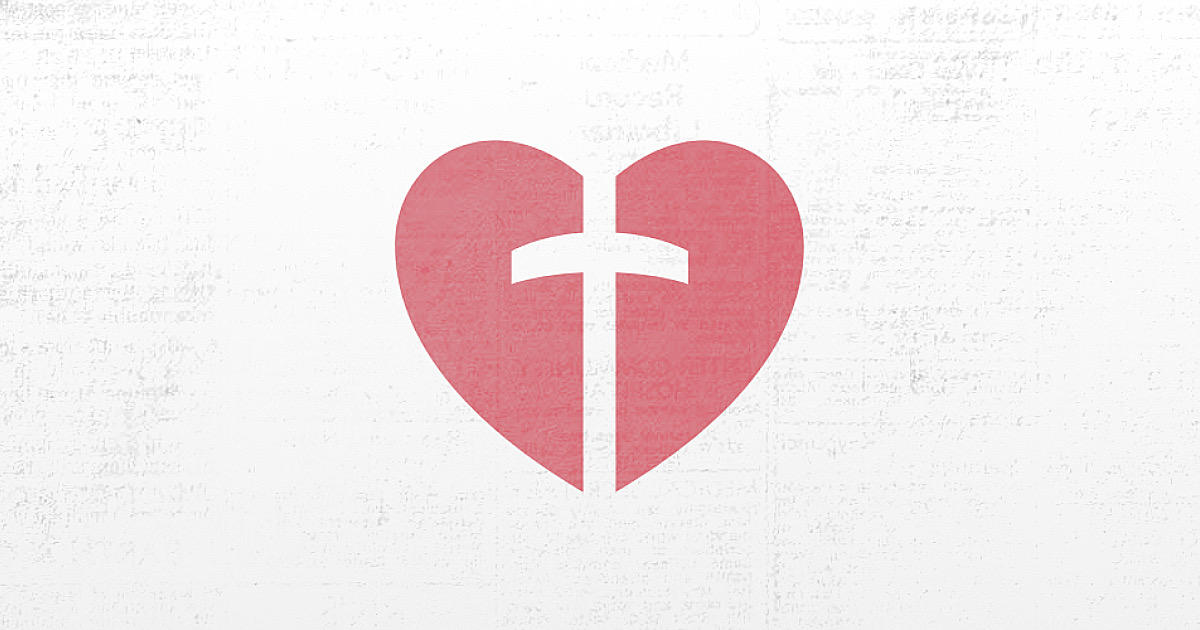
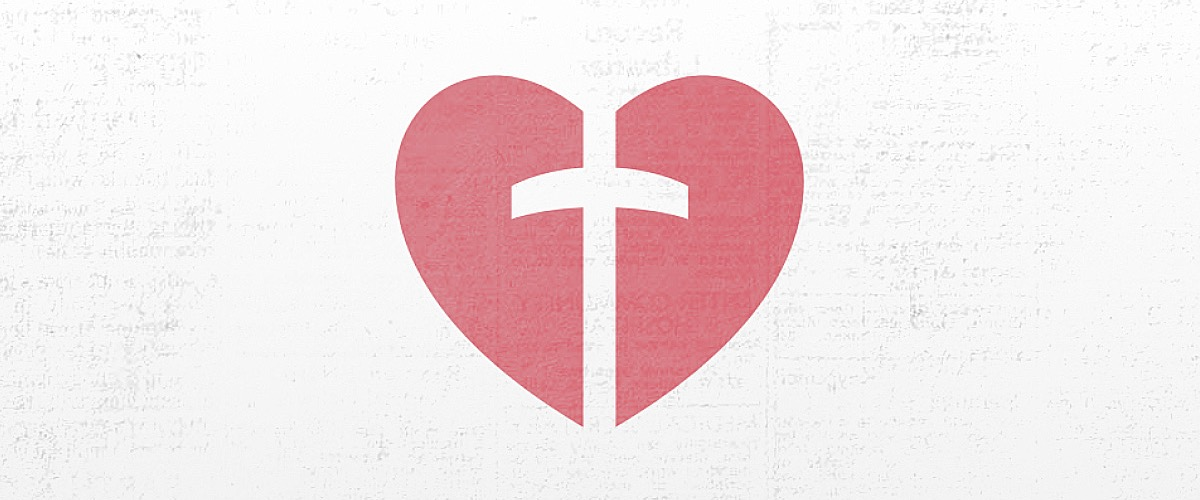
Simplify the README, in the style of Anki's
Removes the app screenshots, crops the cover image so it spans the full width,
and trims the text down to about, links, contributing, developing and license.

diff --git a/README.md b/README.md
@@ -1,117 +1,68 @@
-<p align="center"><img src="docs/images/cover.jpg" alt="Simple Bible Memory: a red heart with a cross, on the page of an old Bible" width="720"></p>
+<img src="docs/images/cover.jpg" alt="Simple Bible Memory: a red heart with a cross, on the page of an old Bible" width="100%">
 
 # Simple Bible Memory
 
-Learn scripture by heart. Simple Bible Memory is a free app for memorizing Bible verses, built around **spaced repetition**: you rate how well you remembered a verse, and the app decides when to show it again. It is available in English and Spanish.
+This repository holds the source code for Simple Bible Memory: the web app, the Android and iPhone/iPad apps (the same code, wrapped with [Capacitor](https://capacitorjs.com)), the website, and the tests.
 
-[Website](https://simple-bible-memory.web.app) · [Google Play](https://play.google.com/store/apps/details?id=app.simplebiblememory) · [App Store](https://apps.apple.com/us/app/simple-bible-memory/id6827304569) · [Support on Ko-fi](https://ko-fi.com/simplebiblememory)
+## About
 
-<p align="center">
-  <img src="docs/app-store-assets/iphone-6.9/1-home.png" alt="The list of collections" width="19%">
-  <img src="docs/app-store-assets/iphone-6.9/2-type.png" alt="Typing a verse from memory" width="19%">
-  <img src="docs/app-store-assets/iphone-6.9/3-rate.png" alt="Rating how well a verse was remembered, with the time until it comes back" width="19%">
-  <img src="docs/app-store-assets/iphone-6.9/4-blanks.png" alt="Filling in the blanks from a bank of words" width="19%">
-  <img src="docs/app-store-assets/iphone-6.9/5-stats.png" alt="Statistics: verses memorized and progress by book" width="19%">
-</p>
+Simple Bible Memory is a free app for memorizing Bible verses, built around spaced repetition: you rate how well you remembered a verse, and the app decides when to show it again. It works offline, needs no account, and is available in English and Spanish.
 
-This repository holds the whole project: the web app, the Android and iPhone/iPad apps (the same code, wrapped with [Capacitor](https://capacitorjs.com)), the website, and the tests.
-
-## What it does
-
-- **Four ways to study:** flashcards, typing the verse from memory, fill in the blanks (four levels), and a hands-free mode where the app reads verses aloud and you recite.
-- **Spaced repetition** with [FSRS](https://github.com/open-spaced-repetition) (via `ts-fsrs`). Each verse has two cards, *recall* and *identify*, scheduled separately. There is a daily new-card limit, a due queue, review history, and "extra practice" that does not touch your schedule.
-- **Offline first, no account needed.** Everything is stored on the device in SQLite. Signing in with Google is optional and adds a private backup that syncs across devices.
-- **Add verses quickly:** type a reference and the passage fills in (in more than a thousand translations through the [YouVersion Platform](https://developers.youversion.com)), or paste a whole chapter and split it into one card per verse.
-- **Share and discover:** share a collection with one link, or browse and import collections other people published. Publishing does not show your name or email.
-- **Interlinear word study:** tap a word to see the Hebrew or Greek behind it, with Spanish definitions for Greek.
-- **Make it yours:** custom theme colors, light/dark mode, your own font, text size up to 200%, study reminders, home-screen widgets.
-- **Accessible:** every screen is checked with axe in both themes, and the interface works with the keyboard and screen readers.
-- Import decks from Anki ("Notes in Plain Text") and export your decks as JSON.
-
-## Tech stack
-
-React 19 · TypeScript (strict) · Vite · Tailwind CSS v4 · React Router · [wa-sqlite](https://github.com/rhashimoto/wa-sqlite) (SQLite in the browser) · ts-fsrs · Firebase (Auth, Firestore, Hosting) · Capacitor 8 · Vitest · Playwright
+To learn more, see the [website](https://simple-bible-memory.web.app) or the list of features in [docs/features.md](docs/features.md).
 
 ## Getting started
 
-You need **Node.js 22** or newer (20 works too) and npm.
+- [Website](https://simple-bible-memory.web.app)
+- [Google Play](https://play.google.com/store/apps/details?id=app.simplebiblememory)
+- [App Store](https://apps.apple.com/us/app/simple-bible-memory/id6827304569)
+- [Support on Ko-fi](https://ko-fi.com/simplebiblememory)
+
+## Contributing
+
+Contributions are welcome: bug fixes, translations, accessibility improvements, ideas. Please read [CONTRIBUTING.md](CONTRIBUTING.md) and the [Code of Conduct](CODE_OF_CONDUCT.md) first. To report a security problem, see [SECURITY.md](SECURITY.md); please do not open a public issue for it.
+
+## Developing
+
+You need Node.js 22 or newer (20 works too) and npm.
 
 ```bash
 git clone https://github.com/amy14rubio/simple-bible-memory.git
 cd simple-bible-memory
 npm install
-cp .env.example .env.local     # optional, see "Optional services" below
-npm run dev                    # http://localhost:5173
+npm run dev        # http://localhost:5173
 ```
 
-The app works right away with no keys. You can create decks, type your own verses, study, and everything is saved in your browser.
-
-### Optional services
-
-Everything below is optional. Each one needs **your own** account or key; never use someone else's, and never commit them (`.env.local` is ignored by git).
+The app works right away with no keys. Everything below is optional and needs **your own** account or key (`.env.local` is ignored by git; copy `.env.example` to start):
 
 | What you want | Variable in `.env.local` | Notes |
 |---|---|---|
-| Passage autofill from YouVersion | `VITE_YOUVERSION_APP_KEY` | Request a key at [developers.youversion.com](https://developers.youversion.com). Without it people type or paste their own verses. |
-| The full list of 1,400 translations | `node scripts/make-translation-data.mjs` | Needs the key above. It writes `src/domain/bible/catalogue.json` and `languageNames.json`, which are not in git. Without them the picker offers the public-domain texts listed by hand in `src/domain/bible/sources.ts`. |
-| Full Google Fonts catalogue | `VITE_GOOGLE_FONTS_API_KEY` | Without it the Font page offers a short hand-picked list. See [docs/features.md](docs/features.md). |
+| Passage autofill from YouVersion | `VITE_YOUVERSION_APP_KEY` | Request a key at [developers.youversion.com](https://developers.youversion.com). |
+| The full list of 1,400 translations | `node scripts/make-translation-data.mjs` | Needs the key above. Writes two data files that are not in git; without them the picker offers the public-domain texts listed in `src/domain/bible/sources.ts`. |
+| Full Google Fonts catalogue | `VITE_GOOGLE_FONTS_API_KEY` | Without it the Font page offers a short hand-picked list. |
 | Sharing, Discover and account backup | `VITE_FIREBASE_*` | Create your own Firebase project; see `.env.example`. |
-| Try sharing with no Firebase at all | `VITE_SHARING_BACKEND=fake` | An in-memory stand-in: nothing is saved or sent. Good for working on the Discover and sharing screens. |
+| Try sharing with no Firebase | `VITE_SHARING_BACKEND=fake` | An in-memory stand-in: nothing is saved or sent. |
 
-These keys end up inside the built app, so they cannot be hidden. Restrict them in the provider's console (allowed websites or apps, quotas).
-
-## Tests and checks
+These keys end up inside the built app, so restrict them in the provider's console.
 
 ```bash
-npm test                 # unit and repository tests (Vitest)
+npm test                          # unit and repository tests (Vitest)
 npx playwright install chromium   # once
-npm run test:e2e         # browser tests (Playwright), including accessibility checks
-npm run test:rules       # Firestore security rules (needs Java 21 and the Firebase CLI)
+npm run test:e2e                  # browser tests, including accessibility checks
+npm run test:rules                # Firestore rules (needs Java 21 and the Firebase CLI)
 npm run lint
-npm run build            # type-check and production build
+npm run build                     # type-check and production build
 ```
 
-Pull requests run all of these automatically (see [.github/workflows/ci.yml](.github/workflows/ci.yml)), plus a scan for leaked secrets.
+Pull requests run all of these automatically, plus a scan for leaked secrets.
 
-## Project layout
-
-```
-src/
-  app/          providers, shell, routing
-  components/   shared UI (and shadcn/ui components, restyled)
-  features/     screens: decks, cards, study, settings, discover, sharing, account, wordstudy, ...
-  domain/       pure TypeScript with no React or SQL: study logic, scheduling, Bible references
-  data/         database interface, adapters, migrations, repositories
-  platform/     what differs per platform: YouVersion, notifications, voice, deep links, widgets
-  i18n/         English and Spanish messages
-public/         the website (landing page, legal pages) and static assets. The three phone photos beside the letter on the landing page are not included (they show licensed Bible text); without them the page shows just the letter.
-web-data/       data files served by the website (Spanish word-study dictionaries)
-tests/          Playwright browser tests
-rules-tests/    Firestore rules tests
-android/, ios/  the Capacitor native projects
-docs/           architecture, release runbooks, feature notes
-```
-
-Start with [docs/ARCHITECTURE.md](docs/ARCHITECTURE.md). More notes: [features](docs/features.md), [YouVersion and Bible text](docs/youversion.md), [app links](docs/app-links.md), [widgets](docs/widgets.md).
-
-## Android and iPhone/iPad
-
-The native apps are the web app inside Capacitor. `npm run ios:sync` builds the web app and copies it into the iOS project. Signing keys, Firebase config files for the native apps (`google-services.json`, `GoogleService-Info.plist`) and Apple/Google accounts are **not** in the repository; the release steps are in [docs/android-release.md](docs/android-release.md) and [docs/ios-release.md](docs/ios-release.md). If you build your own version, change the app id and use your own Firebase project and developer accounts (see [BRANDING.md](BRANDING.md)).
-
-## Contributing
-
-Contributions are welcome: bug fixes, translations, accessibility improvements, ideas. Please read [CONTRIBUTING.md](CONTRIBUTING.md) first, and the [Code of Conduct](CODE_OF_CONDUCT.md). To report a security problem, see [SECURITY.md](SECURITY.md); please do not open a public issue for it.
+Start with [docs/ARCHITECTURE.md](docs/ARCHITECTURE.md). More notes: [features](docs/features.md), [YouVersion and Bible text](docs/youversion.md), [CI/CD](docs/ci-cd.md), [app links](docs/app-links.md), [widgets](docs/widgets.md). The native apps and their release steps are in [docs/android-release.md](docs/android-release.md) and [docs/ios-release.md](docs/ios-release.md); signing keys and Firebase config files for them are not in the repository. If you build your own version, change the app id and use your own accounts (see [BRANDING.md](BRANDING.md)).
 
 ## License
 
-The code is licensed under the **[GNU Affero General Public License v3.0 or later](LICENSE)** (AGPL-3.0-or-later). In short: you may use, study, change and share it, but if you distribute a modified version, or let people use it over a network, you must publish your source under the same license and keep the copyright notices.
+The code is licensed under the [GNU Affero General Public License v3.0 or later](LICENSE). In short: you may use, study, change and share it, but if you distribute a modified version, or let people use it over a network, you must publish your source under the same license.
 
 Not covered by that license:
 
 - **The name, logo and store listings.** See [BRANDING.md](BRANDING.md). If you publish a fork, give it a different name and icon.
 - **`web-data/ubs-es/`**, the Spanish word-study dictionaries, are under CC BY-SA 4.0 (see the license file in that folder).
-- **Bible texts, fonts and other third-party material** keep their own licenses and credits: [THIRD_PARTY_NOTICES.md](THIRD_PARTY_NOTICES.md). The repository contains no licensed Bible text; licensed translations are fetched from the YouVersion Platform on the person's device and are not redistributed.
-
-## Credits
-
-Spaced repetition by [FSRS](https://github.com/open-spaced-repetition). Greek and Hebrew word data from [STEPBible](https://www.stepbible.org/) and the [Berean Interlinear Bible](https://bereanbible.com/). Spanish definitions from the United Bible Societies. Bible text and translation list from the [YouVersion Platform](https://developers.youversion.com). Fonts: Literata and Instrument Sans (SIL OFL 1.1). Full list: [THIRD_PARTY_NOTICES.md](THIRD_PARTY_NOTICES.md).
+- **Bible texts, fonts and other third-party material** keep their own licenses and credits: [THIRD_PARTY_NOTICES.md](THIRD_PARTY_NOTICES.md). The repository contains no licensed Bible text; it is fetched from the YouVersion Platform on the person's device.
